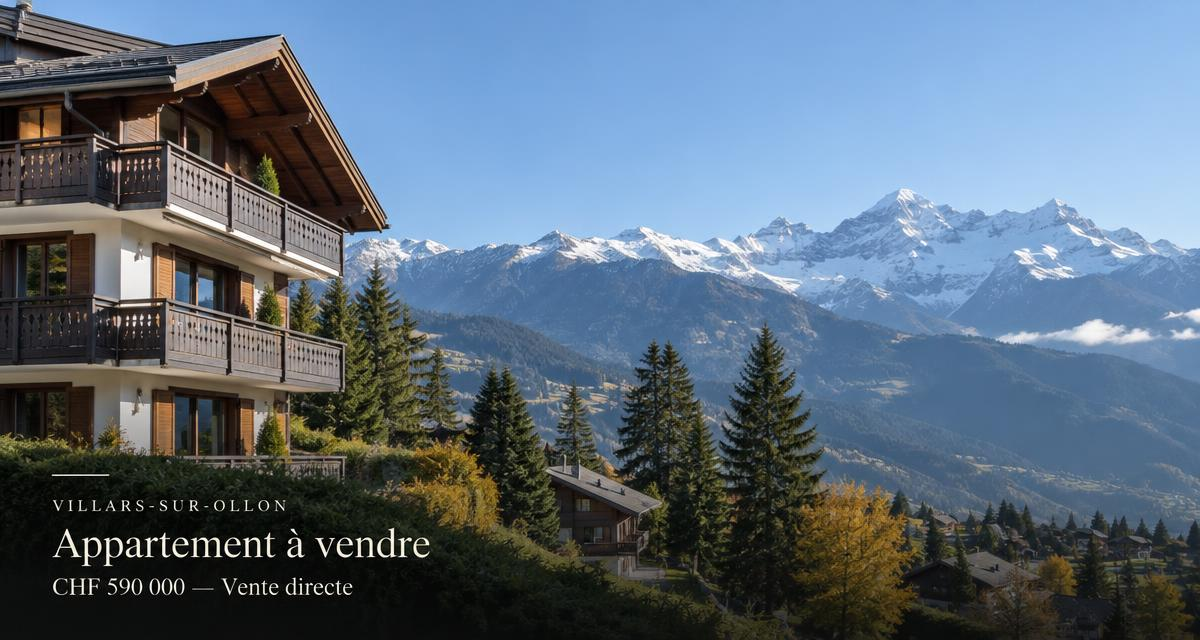
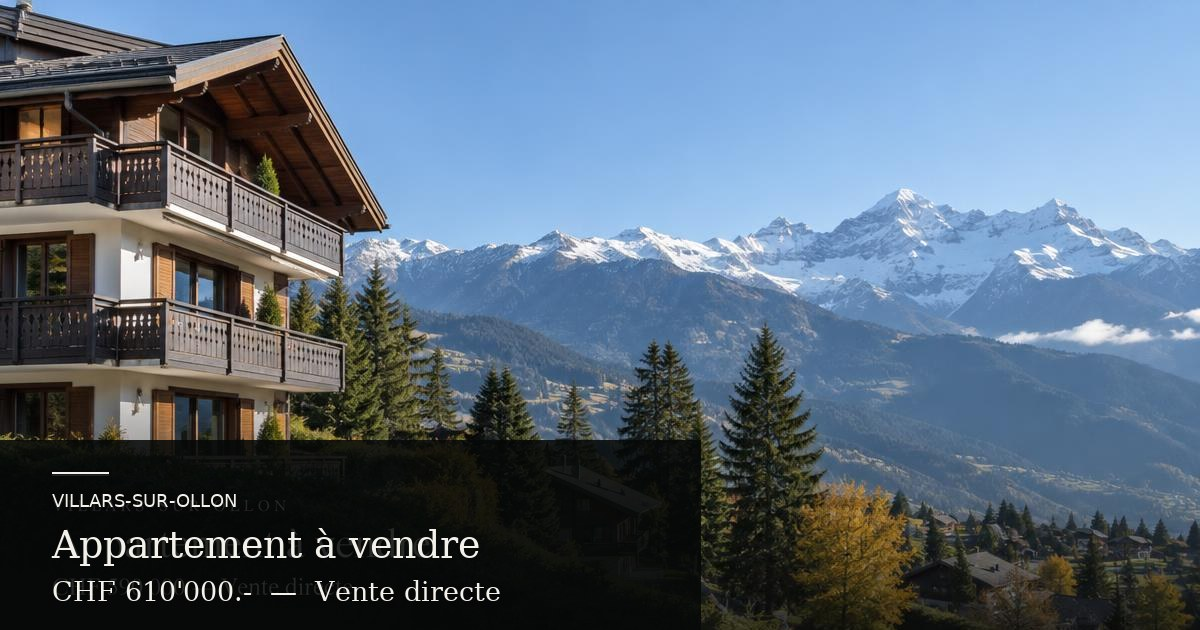
Changes

diff --git a/src/test/listing-requirements.test.ts b/src/test/listing-requirements.test.ts
@@ -1,0 +1,16 @@
+import { describe, expect, it } from "vitest";
+import { dict } from "@/components/villa/i18n";
+
+describe("confirmed listing requirements", () => {
+  it.each(["fr", "en", "de"] as const)("uses CHF 610'000.- in %s", (lang) => {
+    expect(dict[lang].heroMeta).toContain("CHF 610'000.-");
+  });
+
+  it.each(["fr", "en", "de"] as const)("uses exactly 48 m² in %s", (lang) => {
+    expect(dict[lang].details[0]?.[1]).toBe("48 m²");
+  });
+
+  it.each(["fr", "en", "de"] as const)("states the LFAIE condition in %s", (lang) => {
+    expect(dict[lang].ownText).toContain("LFAIE");
+  });
+});

diff --git a/src/test/app-routing.test.tsx b/src/test/app-routing.test.tsx
@@ -14,4 +14,9 @@ describe("App routing", () => {
 
     expect(matches.at(-1)?.routeId).not.toBe(rootRouteId);
   });
+
+  it.each(["/legal", "/privacy"])("matches the public information page %s", (path) => {
+    const router = createRouter({ routeTree, context: { queryClient: new QueryClient() } });
+    expect(router.matchRoutes(path).at(-1)?.routeId).not.toBe(rootRouteId);
+  });
 });
